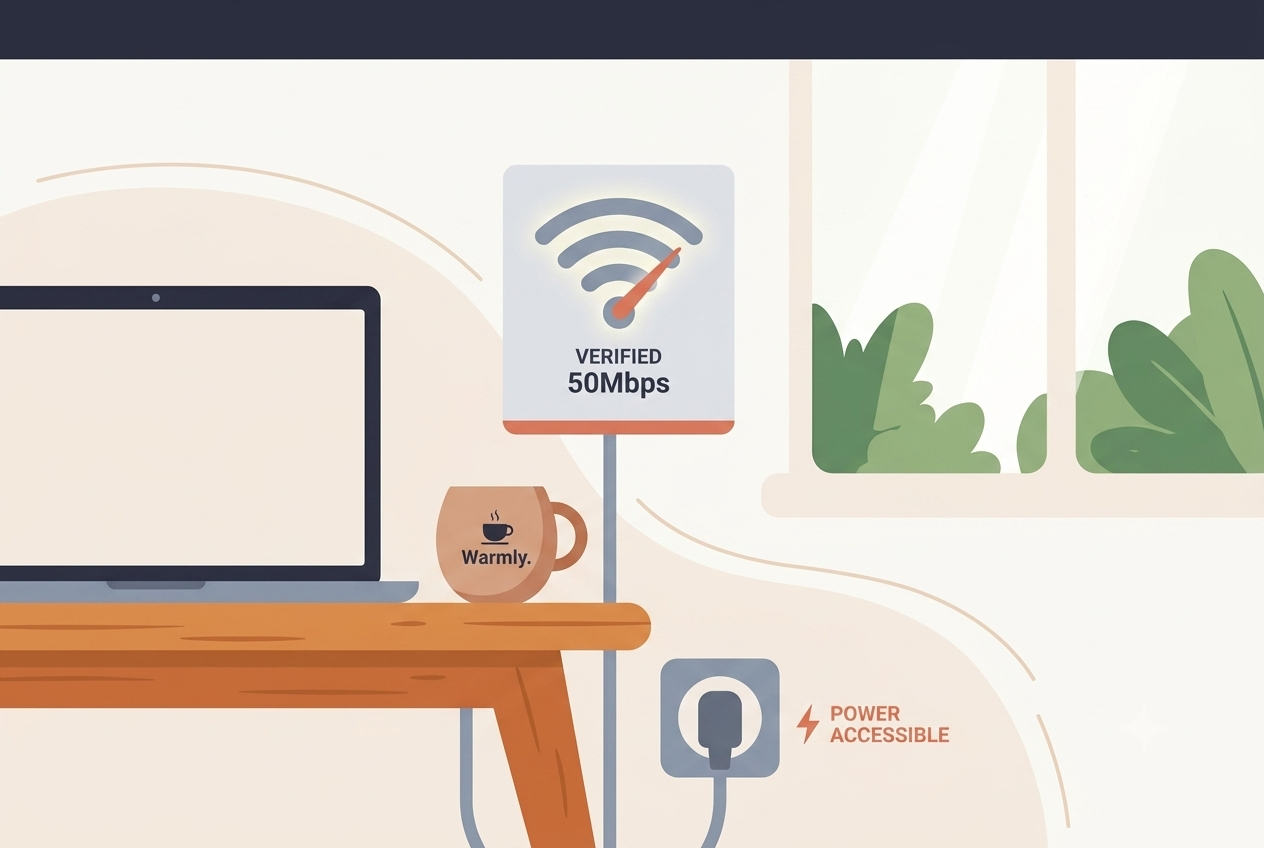
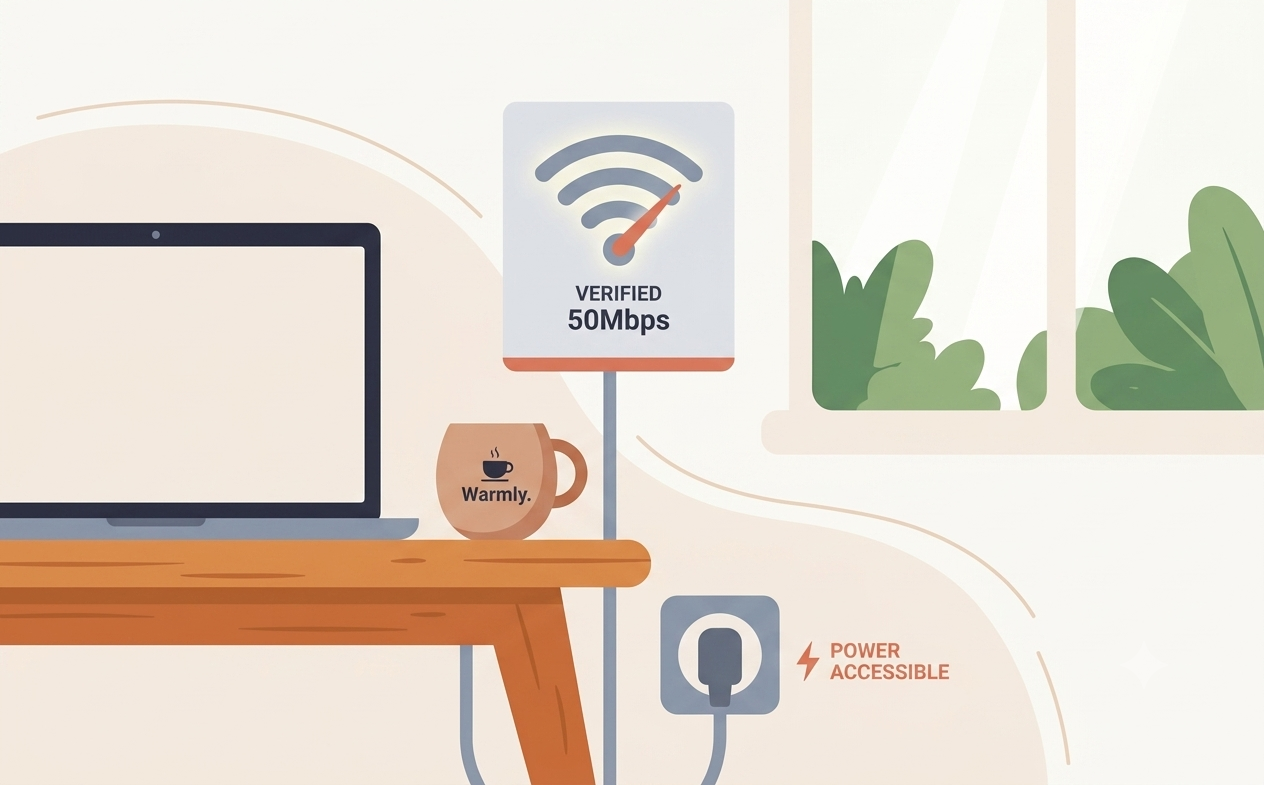
Header styles

diff --git a/index.html b/index.html
@@ -5,64 +5,67 @@
     <meta charset="UTF-8">
     <meta name="viewport" content="width=device-width, initial-scale=1.0">
     <title>Warmly</title>
+    <link rel="stylesheet" href="style.css">
 </head>
 <body>
 
     <header>
         <div class="logo-and-links">
-            <p class="logo">Warmly</p>
+            <p class="heading">Warmly</p>
             <ul>
-                <li>Find Cafes</li>
-                <li>Verify Wi-Fi</li>
-                <li>Add a Spot</li>
+                <li class="subtext">Find Cafes</li>
+                <li class="subtext">Verify Wi-Fi</li>
+                <li class="subtext">Add a Spot</li>
             </ul>
         </div>
         <div class="hero">
             <div class="hero-text">
-                <h1 class="main-title">Stop guessing. Find cafes with guaranteed Wi-Fi & outlets.</h1>
-                <p>We crowdsource and manually verify the three things remote workers actually care about: real outlet locations, tested internet speeds, and noise levels. Work from anywhere, stress-free.</p>
-                <button>Sign Up</button>
+                <h1 class="heading">Stop guessing. Find cafes with guaranteed Wi-Fi and outlets.</h1>
+                <p class="subtext">We crowdsource and manually verify the three things remote workers actually care about: real outlet locations, tested internet speeds, and noise levels. Work from anywhere, stress-free.</p>
+                <button class="hero-sign-up">Sign Up</button>
             </div>
-            <img class="hero-img">
+            <img class="hero-img" src="images/warmly-hero-img.png" alt="Hero image">
         </div>
     </header>
 
     <main>
         <div class="icons-main-container">
-            <h3 class="icons-heading-text">Verified indicators you can actually trust.</h3>
+            <h3 class="heading">Verified indicators you can actually trust.</h3>
             <div class="icons-container">
                 <div class="icons">
                     <img class="icon-img" alt="An icon of a Wi-Fi signal">
-                    <p class="icon-subtext">Every listed cafe includes a verified speed test screenshot. No more "free Wi-Fi" that takes ten minutes to load a single pull request.</p>
+                    <p class="subtext">Every listed cafe includes a verified speed test screenshot. No more "free Wi-Fi" that takes ten minutes to load a single pull request.</p>
                 </div>
                 <div class="icons">
                     <img class="icon-img" alt="An icon of a power outlet plug">
-                    <p class="icon-subtext">We don't just tell you if they have outlets—we show you exactly which tables have them so you can claim your spot early.</p>
+                    <p class="subtext">We don't just tell you if they have outlets—we show you exactly which tables have them so you can claim your spot early.</p>
                 </div>
                 <div class="icons">
                     <img class="icon-img" alt="An icon of a decibel meter">
-                    <p class="icon-subtext">Know before you go. We track average hourly noise levels so you never accidentally dial into a client call from a chaotic espresso-grinding zone.</p>
+                    <p class="subtext">Know before you go. We track average hourly noise levels so you never accidentally dial into a client call from a chaotic espresso-grinding zone.</p>
                 </div>
                 <div class="icons">
                     <img class="icon-img" alt="An icon of a coffee mug">
-                    <p class="icon-subtext">We actively filter out cafes that rush you out the door. Discover places that welcome laptops and encourage deep work.</p>
+                    <p class="subtext">We actively filter out cafes that rush you out the door. Discover places that welcome laptops and encourage deep work.</p>
                 </div>
             </div>
         </div>
         <div class="testimonial">
-            <p class="quote">I used to spend my first 30 minutes of every morning wandering around the city looking for an open plug and working internet. Warmly lets me plan my day in seconds and actually get to work.</p>
-            <p class="author">Marcus Chen, Full-Stack Developer</p>
+            <p class="quote subtext">I used to spend my first 30 minutes of every morning wandering around the city looking for an open plug and working internet. Warmly lets me plan my day in seconds and actually get to work.</p>
+            <p class="author subtext">Marcus Chen, Full-Stack Developer</p>
         </div>
         <div class="call-to-action">
             <div class="cta-text-container">
-                <h5 class="cta-heading-text">Hosting a remote team or working solo?</h5>
-                <p class="cta-subtext">Join over 10,000 digital nomads, writers, and developers who never work from a dead zone again.</p>
+                <h5 class="heading">Hosting a remote team or working solo?</h5>
+                <p class="subtext">Join over 10,000 digital nomads, writers, and developers who never work from a dead zone again.</p>
             </div>
             <button>Sign Up</button>
         </div>
     </main>
 
-    <footer>Copyright &copy; Warmly 2026</footer>
+    <footer>
+        <p class="subtext">Copyright &copy; Warmly 2026</p>
+    </footer>
     
 </body>
 </html>

diff --git a/style.css b/style.css
@@ -1,0 +1,82 @@
+@font-face {
+    font-family: 'Fraunces';
+    src: url('fonts/Fraunces.ttf');
+}
+
+@font-face {
+    font-family: 'PlusJakartaSans';
+    src: url('fonts/PlusJakartaSans.ttf');
+}
+
+* {
+    margin: 0;
+    padding: 0;
+    box-sizing: border-box;
+}
+
+header {
+    display: flex;
+    flex-direction: column;
+    padding: 16px 100px 80px;
+    background-color: #1E2229;
+}
+
+ul {
+    display: flex;
+    gap: 16px;
+    list-style-type: none;
+}
+
+ul li:hover {
+    color: #E07A5F;
+    cursor: pointer;
+}
+
+.logo-and-links {
+    display: flex;
+    justify-content: space-between;
+    margin-bottom: 80px;
+}
+
+.hero {
+    display: flex;
+    align-items: center;
+    gap: 50px;
+    height: 300px;
+}
+
+.hero-text {
+    display: flex;
+    flex-direction: column;
+    gap: 8px;
+}
+
+.hero-sign-up {
+    color: #FAF8F5;
+    background-color: #E07A5F;
+    width: 100px;
+    border: none;
+    padding: 8px 16px;
+    border-radius: 8px;
+}
+
+.hero-sign-up:hover {
+    background-color: #C9654B;
+    cursor: pointer;
+}
+
+.hero-img {
+    width: 500px;
+    height: 300px;
+    border-radius: 8px;
+}
+
+.heading {
+    font-family: 'Fraunces';
+    color: #FAF8F5;
+}
+
+.subtext {
+    font-family: 'PlusJakartaSans';
+    color: #A7A9BE;
+}
